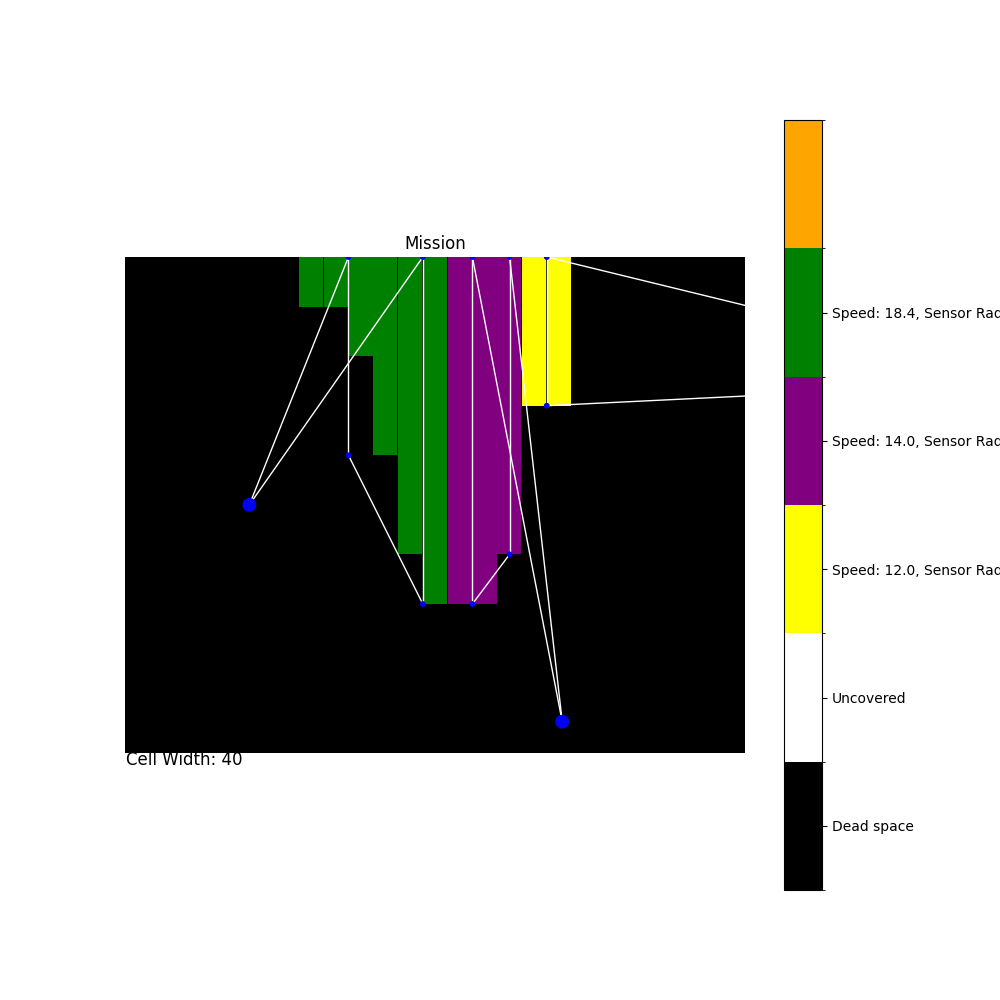
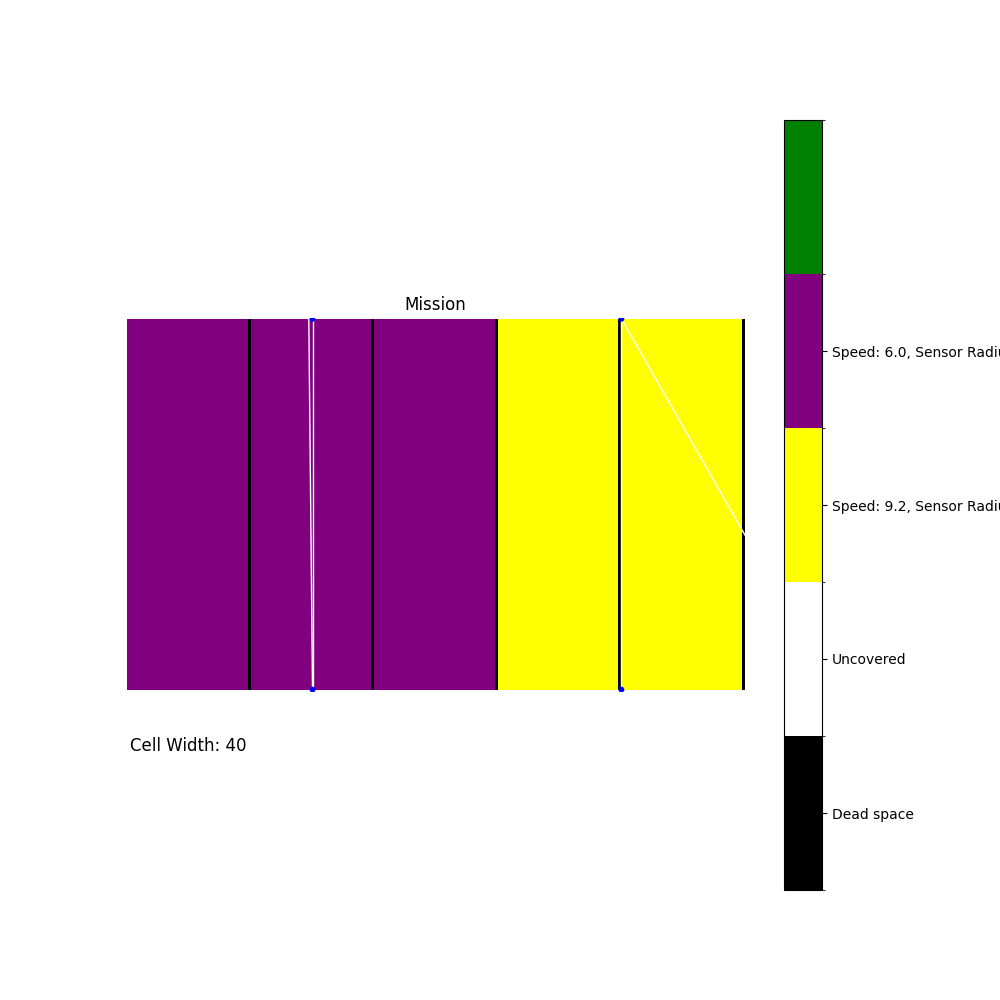
Fixed issue with small survey not receiving assignments.

diff --git a/py/HARMONY/AlgorithmDevelopment/cyclicRegionGrowth.py b/py/HARMONY/AlgorithmDevelopment/cyclicRegionGrowth.py
@@ -15,13 +15,6 @@ def cyclic_region_growth(mission: MissionArea):
             r = R[i]
             rNumTasks = calculate_optimal_tasks(mission, r)
             if rNumTasks <= 0 and r not in removed_vehicles:
-                # Softly remove r from mission by giving 0 capabilities.
-                # mission.grid_graph.graph.nodes[r]['speed'] = 0
-                # mission.grid_graph.graph.nodes[r]['sensorRange'] = 0
-                # mission.grid_graph.graph.nodes[r]['displacement'] = 0
-                # mission.grid_graph.graph.nodes[r]['originalPos'] = None
-                # mission.grid_graph.graph.nodes[r]['region'] = -1
-                # mission.grid_graph.graph.remove_node(r)
                 mission.vehicle_assignments.pop(r)
                 mission.vehicles.remove(r)
                 R = mission.vehicles
@@ -48,7 +41,7 @@ def cyclic_region_growth(mission: MissionArea):
         NV_k[i] = set((mission.grid_graph.graph[R[i]].keys()))
 
     last_updated_cell = 0;
-    while (N > len(R) + len(removed_vehicles)):  # This is len R because the once the last nodes are updated, if statement doesn't N-1 again.
+    while (N > len(R)):  # This is len R because the once the last nodes are updated, if statement doesn't N-1 again.
         for k in range(0, len(R)):
             for j in range(0, rate[k]):
                 # Update NV_K:
